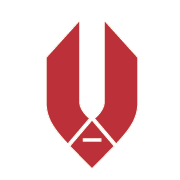
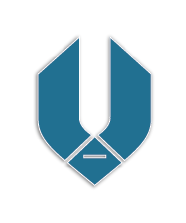
promena 24.4

Changed region(s): [[0.1667, 0.1111, 0.8333, 0.9444]]

diff --git a/public/css/screen.css b/public/css/screen.css
@@ -20,7 +20,7 @@ time, mark, audio, video {
   margin: 0;
   padding: 0;
   border: 0;
-  font: inherit;
+  font-family: font-family: 'Raleway', sans-serif;
   font-size: 100%;
   vertical-align: baseline;
 }
@@ -133,6 +133,12 @@ body {
   position: relative;
   *zoom: 1;
 }
+
+.wrap>ul {
+	  text-transform: uppercase;
+
+}
+
 /* line 19, ../sass/mixins.scss */
 .wrap:before, .wrap:after {
   content: " ";
@@ -893,8 +899,8 @@ input[type="radio"] + label {
 
 /* line 2, ../sass/main/header.scss */
 .top-header {
-  background-color: #b71c3d;
-  border-bottom: 1px solid #99102d;
+  background-color: #216f8e;
+  border-bottom: 1px solid #216f8e;
   color: #fff;
 }
 /* line 7, ../sass/main/header.scss */
@@ -1090,9 +1096,9 @@ input[type="radio"] + label {
 }
 /* line 189, ../sass/main/header.scss */
 .main-header {
-  background-color: #1750a5;
+  background-color: #216f8e;
   min-height: 59px;
-  border-bottom: 1px solid #124188;
+  border-bottom: 1px solid #216f8e;
 }
 /* line 194, ../sass/main/header.scss */
 .main-header .wrap > ul {
@@ -1246,7 +1252,7 @@ input[type="radio"] + label {
 /* Sub header */
 /* line 326, ../sass/main/header.scss */
 .sub-header {
-  background-color: #1c5ab7;
+  background-color: #35819f;
 }
 /* line 329, ../sass/main/header.scss */
 .sub-header ul {
@@ -1562,7 +1568,7 @@ input[type="radio"] + label {
 /* Colors for articles */
 /* line 61, ../sass/partials/category.scss */
 .green .category a {
-  background: #5eb71c;
+  background: #9f1919;
 }
 
 /* line 62, ../sass/partials/category.scss */

diff --git a/resources/views/layouts/app.blade.php b/resources/views/layouts/app.blade.php
@@ -17,7 +17,8 @@
     <link href="{{ asset('css/jquery.smartmarquee.css') }}" rel="stylesheet">
 
     <!--dodato iz front-a -->
-    <link href='http://fonts.googleapis.com/css?family=Open+Sans:300italic,400italic,600italic,700italic,800italic,400,300,600,700,800&subset=latin,cyrillic,latin-ext,cyrillic-ext,greek-ext,greek,vietnamese' rel='stylesheet' type='text/css'>
+    <link href='https://fonts.googleapis.com/css?family=Open+Sans:300italic,400italic,600italic,700italic,800italic,400,300,600,700,800&subset=latin,cyrillic,latin-ext,cyrillic-ext,greek-ext,greek,vietnamese' rel='stylesheet' type='text/css'>
+	<link href="https://fonts.googleapis.com/css?family=Raleway" rel="stylesheet">
     <link rel="apple-touch-icon" sizes="57x57" href="img/favicons/apple-icon-57x57.png">
     <link rel="apple-touch-icon" sizes="60x60" href="img/favicons/apple-icon-60x60.png">
     <link rel="apple-touch-icon" sizes="72x72" href="img/favicons/apple-icon-72x72.png">

diff --git a/app/Http/Controllers/WelcomeController.php b/app/Http/Controllers/WelcomeController.php
@@ -39,7 +39,8 @@ class WelcomeController extends Controller
 	
 	private function getWeather(){
 		$vreme = file_get_contents('https://www.weather2umbrella.com/vremenska-prognoza-valjevo-serbia-sr/trenutno');
-		$temperatura = $this->getContents($vreme,'<div class="current_temperature_data hidden-xs" style="color:#f2c600">', '</div>');
+		$temperatura = $this->getContents($vreme,'<div class="current_temperature_data', '</div>');
+		$temperatura = $this->getContents($temperatura[0],'>', '</p>');
 		$this->temperatura = strip_tags($temperatura[0]);
 		$this->slika = "https://www.weather2umbrella.com/wp-content/themes/w2u/image/svg/weather-icons/n01.svg"; //$this->getContents($vreme,'<a onclick="App.scrollTo(\'#weather_per_hour_wrapper\');"><img src="', '"')[0];
 	}

diff --git a/djoroslav/connection.php b/djoroslav/connection.php
@@ -13,7 +13,7 @@ class connection
     public function __construct()
     {
        // $this->connection = new mysqli('localhost', 'admin_newb', 'tkpxKWn8Mt', 'admin_agregator');
-	    $this->connection = new mysqli('localhost', 'root', 'root', 'agregator');
+	    $this->connection = new mysqli('localhost', 'admin_newb', 'tkpxKWn8Mt', 'admin_agregator');
 
         if ($this->connection->connect_error) {
             die("Greska pri konekciji: " . $this->connection->connect_error);

diff --git a/resources/views/partials/sections/news.blade.php b/resources/views/partials/sections/news.blade.php
@@ -22,7 +22,7 @@
 			</div>
 			<div class="meta"><span class="date">{{ $vest->datum }}</span>|<span class="views">351</span> pregleda</div>
 			<h2><a href="{{ $vest->link }}">{{ $vest->naslov }}</a></h2>
-			<p>{{ \Illuminate\Support\Str::words($vest->text, 30, '...') }}</p>
+			<p>{{ \Illuminate\Support\Str::words($vest->text, 60, '...') }}</p>
 		</article>
 		@endforeach
 	</div>

diff --git a/djoroslav/mail.php b/djoroslav/mail.php
@@ -16,4 +16,3 @@ echo "do jaja";
 }
 mail("jekic.va@gmail.com", $msubject, $message, $headers);
 mail("newbalanceagency@gmail.com", $msubject, $message, $headers);
-
